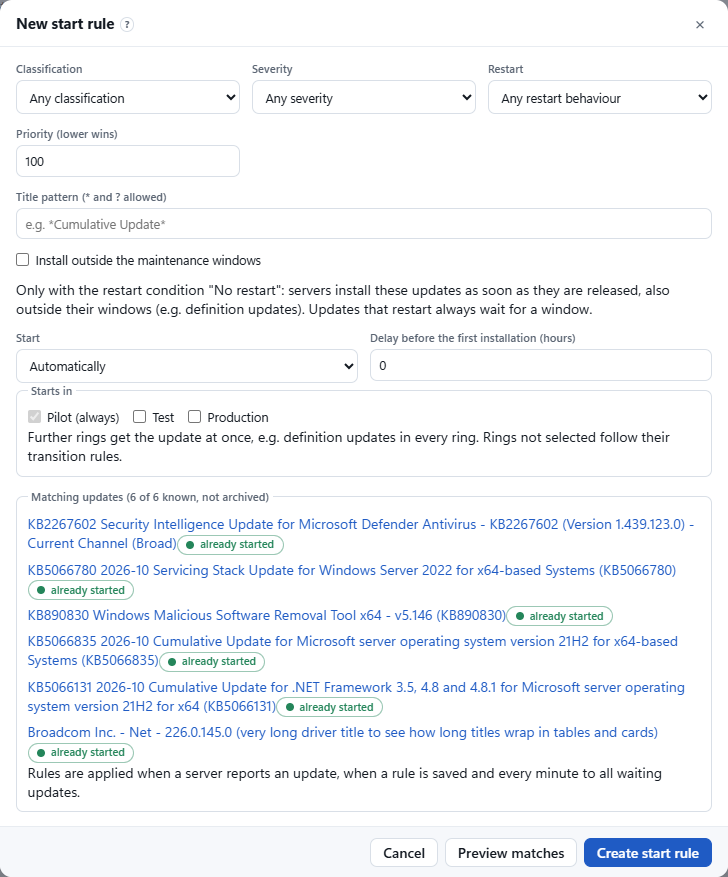
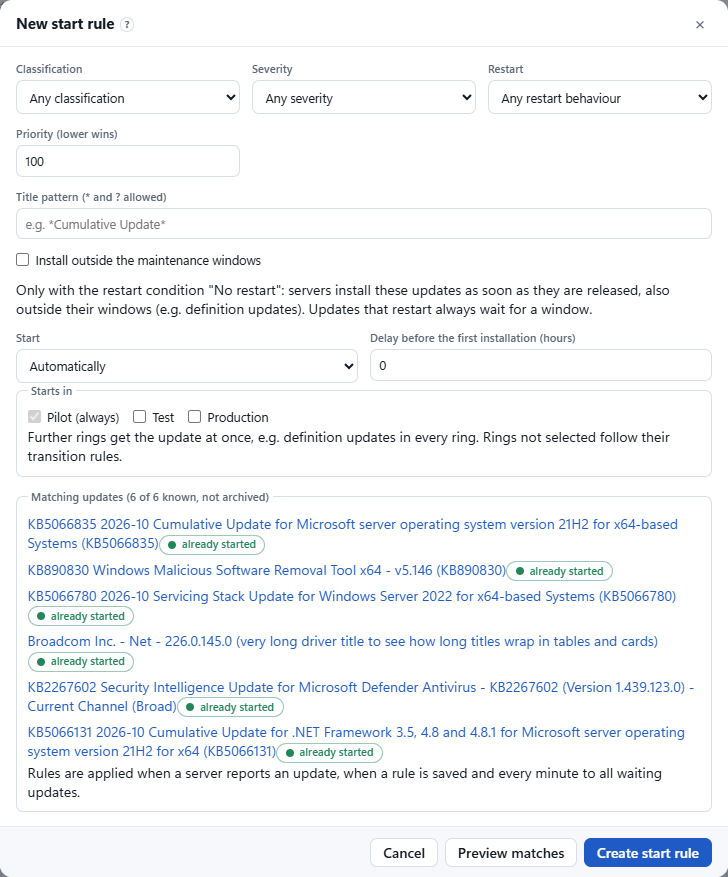
Help pages with a sticky topic navigation and the current topic's sections, wider article, screenshots of pages and boxes on nine topics; mojibake fixed

Changed region(s): [[0.0302, 0.5849, 0.9368, 0.862]]

diff --git a/src/SUSyphos.Server/wwwroot/app.css b/src/SUSyphos.Server/wwwroot/app.css
@@ -473,7 +473,16 @@ h1 .help-link { vertical-align: 0.3em; }
 .help-index li { display: grid; gap: 0.15rem; padding: 0.75rem 1.1rem; border-top: 1px solid var(--line); }
 .help-index li:first-child { border-top: 0; }
 .help-index a { font-weight: 600; }
-.help-article .box-body { max-width: 52rem; line-height: 1.55; }
+/* Help page: the topics on the left (sticky, current topic with its sections), the article in the rest of the width. */
+.help-layout { display: grid; grid-template-columns: 15rem minmax(0, 1fr); gap: 1rem; align-items: start; }
+.help-nav { position: sticky; top: 1rem; max-height: calc(100vh - 2rem); overflow-y: auto; padding: 0.5rem 0; font-size: 0.86rem; }
+.help-nav ul { list-style: none; margin: 0; padding: 0; }
+.help-nav li a { display: block; padding: 0.3rem 1rem; color: var(--text); border-left: 3px solid transparent; }
+.help-nav li a:hover { background: var(--surface-2); text-decoration: none; }
+.help-nav li.current > a { color: var(--accent); font-weight: 600; border-left-color: var(--accent); background: var(--accent-soft); }
+.help-nav li ul a { padding: 0.2rem 1rem 0.2rem 1.8rem; color: var(--muted); font-size: 0.8rem; }
+@media (max-width: 1100px) { .help-layout { grid-template-columns: minmax(0, 1fr); } .help-nav { position: static; max-height: none; } }
+.help-article .box-body { max-width: 72rem; line-height: 1.55; }
 .help-article h1 { margin-bottom: 0.6rem; }
 .help-article h2 { margin: 1.8rem 0 0.4rem; font-size: 1.15rem; }
 .help-article h3 { margin: 1.3rem 0 0.3rem; font-size: 1rem; }

diff --git a/src/SUSyphos.Server/Help/HelpCatalog.cs b/src/SUSyphos.Server/Help/HelpCatalog.cs
@@ -16,7 +16,8 @@ namespace SUSyphos.Server.Help;
 /// <param name="Html">The rendered page.</param>
 /// <param name="Anchors">Element ids of the headings, the targets of the help links in the dashboard.</param>
 /// <param name="Images">Image paths the page shows (screenshots under <c>help-images/</c>).</param>
-public sealed record HelpTopic(string Slug, string Title, string Summary, int Order, string Html, FrozenSet<string> Anchors, IReadOnlyList<string> Images);
+/// <param name="Sections">The level-2 headings with their ids, for the navigation next to the page.</param>
+public sealed record HelpTopic(string Slug, string Title, string Summary, int Order, string Html, FrozenSet<string> Anchors, IReadOnlyList<string> Images, IReadOnlyList<(string Id, string Title)> Sections);
 
 /// <summary>
 /// The help pages of the dashboard. Sources are Markdown files compiled into the assembly (<c>Help/Topics</c>); raw HTML
@@ -86,7 +87,8 @@ public sealed partial class HelpCatalog
         var summary = document.Descendants<ParagraphBlock>().FirstOrDefault() is { } first ? PlainText(first.Inline) : string.Empty;
         var anchors = headings.Select(h => h.GetAttributes().Id).OfType<string>().ToFrozenSet(StringComparer.Ordinal);
         var images = document.Descendants<LinkInline>().Where(l => l.IsImage && l.Url is not null).Select(l => l.Url!).ToList();
-        return new HelpTopic(slug, title, summary, order, document.ToHtml(Pipeline), anchors, images);
+        var sections = headings.Where(h => h.Level == 2 && h.GetAttributes().Id is not null).Select(h => (h.GetAttributes().Id!, PlainText(h.Inline))).ToList();
+        return new HelpTopic(slug, title, summary, order, document.ToHtml(Pipeline), anchors, images, sections);
     }
 
     private static string PlainText(ContainerInline? inline) =>

diff --git a/tests/SUSyphos.UiTests/HelpScreenshotTests.cs b/tests/SUSyphos.UiTests/HelpScreenshotTests.cs
@@ -23,6 +23,17 @@ public sealed class HelpScreenshotTests(UiFixture ui)
         { "release-rules-ring-dialog", "/administration/release-rules?tab=rings", "main a[href*='dialog=ring&']", "[role='dialog']" },
         { "release-rules-start-dialog", "/administration/release-rules?dialog=rule-new", null, "[role='dialog']" },
         { "week-choice", "/administration/maintenance", "details.week-choice > summary", "details.week-choice[open]" },
+
+        // Pages and boxes, so every help page shows what it explains (Marc, 2026-10-27).
+        { "overview-tiles", "/", null, "main .tiles" },
+        { "server-list", "/servers", null, "main section.box:has(.ring-strip)" },
+        { "server-page", "/servers/{main}", null, "main .tiles" },
+        { "update-list", "/updates", null, "main section.box:has(table)" },
+        { "update-progress", "/updates/{update}", null, "main .grid-side" },
+        { "operating-systems", "/operating-systems", null, "main .tiles" },
+        { "agent-settings", "/administration/agent-settings", null, "main section.box" },
+        { "notifications-channels", "/administration/notifications", null, "main .grid-2" },
+        { "certificates", "/administration/certificate", null, "main section.box:has(table)" },
     };
 
     /// <summary>Viewport rectangle (left, top, right, bottom) of an element and all its visible descendants.</summary>

diff --git a/tests/SUSyphos.Server.Tests/HelpTests.cs b/tests/SUSyphos.Server.Tests/HelpTests.cs
@@ -28,6 +28,9 @@ public sealed class HelpTests
         var topics = Path.Combine(WebRoot, "..", "Help", "Topics");
 
         Assert.All(Directory.GetFiles(topics, "*.md"), file => Assert.StartsWith("# ", File.ReadAllText(file), StringComparison.Ordinal));
+
+        // UTF-8 read as another code page once turned "×" into "Ã—".
+        Assert.All(Directory.GetFiles(topics, "*.md"), file => Assert.DoesNotContain("Ã", File.ReadAllText(file), StringComparison.Ordinal));
     }
 
     [Fact]

diff --git a/src/SUSyphos.Server/Help/Topics/20-servers.md b/src/SUSyphos.Server/Help/Topics/20-servers.md
@@ -2,6 +2,8 @@
 
 All servers that registered with the central server, approved or not (deleted servers are left out). Click a server name to open its [details](help/server-detail). Search, grouping, sorting and column filters work as described in [Working with lists](help/tables).
 
+![The server list with the ring strip above it, the support and security tags, ring and groups, agent, status and updates](help-images/server-list.png)
+
 ## Actions for selected servers {#actions}
 
 Operators and administrators see a band above the list. Tick the servers in the list (**Select**), then choose in a drop-down button:
@@ -28,7 +30,7 @@ A ring tag switches that ring on or off in the **Ring** filter of the list: seve
 
 ## Servers of an assignment rule {#rule}
 
-Opened from the **Servers** number of an assignment rule, the list shows only the approved servers whose role, domain and host name match that rule. The chip "Assignment rule" with its priority says so; its **Ã—** shows all servers again.
+Opened from the **Servers** number of an assignment rule, the list shows only the approved servers whose role, domain and host name match that rule. The chip "Assignment rule" with its priority says so; its **×** shows all servers again.
 
 ## Columns {#columns}
 
@@ -40,7 +42,7 @@ Opened from the **Servers** number of an assignment rule, the list shows only th
 | **Ring and groups** | The ring the server belongs to, as ring tag ("–": no ring yet), and below it a tag for each server group it belongs to (coordination of installations, see [Server groups](help/groups)). The column filter is the ring; the filter "Group" is in the chips and in "Group by". Whether the ring was set by hand shows on the server's Configuration tab. |
 | **Agent** | Version of the SUSyphos agent on the server (full version in the tooltip) with a mark before it: a green check means current (no newer version released for its ring), a blue arrow up means an update is available (it installs itself), a red dash means the last update failed, and grey dots mean the version is unknown or too old to update itself. The tooltip of the mark explains it; the filter offers the versions and these states. |
 | **Status** | See below. |
-| **Security** | The server against the security baseline of its Windows version: "Current", "1 behind", "2+ behind" or "Unknown" (no security data from Microsoft, see [Operating systems](help/operating-systems#data)), with "Exploited" below when a vulnerability Microsoft knows to be attacked is open. The tooltip names build, baseline and the open vulnerabilities; the filter offers the states and "Exploited". The server groups now stand below the ring. |
+| **Security** | The server against the security baseline of its Windows version: "Current", "1 behind", "2+ behind" or "Unknown" (no security data from Microsoft, see [Operating systems](help/operating-systems#data)), with "Exploited" below when a vulnerability Microsoft knows to be attacked is open. The tooltip names build, baseline and the open vulnerabilities; the filter offers the states and "Exploited". |
 | **Updates** | The updates of the server by state as a small ring (installed, pending, failed, queued), with the number of updates still pending next to it and the counts in the tooltip. Sorted by the pending number; its filter offers "Updates pending" and "Up to date". |
 | **Last heartbeat** | Time of the last heartbeat with a dot before it: green up to 5 minutes old, amber up to an hour, red older (the server counts as offline). Its filter offers "Current", "Older" and "Long ago". |
 

diff --git a/src/SUSyphos.Server/Help/Topics/22-operating-systems.md b/src/SUSyphos.Server/Help/Topics/22-operating-systems.md
@@ -2,6 +2,8 @@
 
 The Windows versions of the approved servers: how many servers run the newest security build, which vulnerabilities are still open, how quickly the servers install a new security build, and when Microsoft ends the support of each version. The line under the title says which monthly security data from Microsoft the page uses and when it was fetched.
 
+![The tiles of the operating systems page: security baseline, open vulnerabilities and exploited](help-images/operating-systems.png)
+
 ## Security data from Microsoft {#data}
 
 The central server reads the security data of the last three months from the Security Update Guide of Microsoft (MSRC, `api.msrc.microsoft.com`, no account needed): once a day, and every two hours from the patch day (second Tuesday) to two days after, when Microsoft revises the data. For every vulnerability (CVE) it keeps severity, CVSS score, impact, whether it is exploited or publicly disclosed, and for every Windows Server version (2016 to 2025, Server Core included) the build and KB that fix it. A failed fetch keeps the data there is; a blue banner **Offline** appears when the fetch is switched off in the configuration (`Msrc:Enabled`, for a central server without internet access), an amber banner **Not fetched** when the last fetch failed, with the error.

diff --git a/src/SUSyphos.Server/Help/Topics/69-agent-settings.md b/src/SUSyphos.Server/Help/Topics/69-agent-settings.md
@@ -2,6 +2,8 @@
 
 Settings of the agents themselves, set once for all agents here; a group or a single server can set other values (their "Agent settings" section). Empty fields keep the agent's own value (its configuration file, shown as "agent default"). Agents apply changes with their next heartbeat and keep them, so they also apply after a restart before the central server is reached. Changes of logging or process priority restart the agent service once. Values in the registry of a server (installer or policy key) win over these settings. What an agent actually applies, and where each value comes from, shows on its server page (System, "Agent settings", Show). Administrators only.
 
+![The agent settings page: one row per setting, dashed fields keep the agent default](help-images/agent-settings.png)
+
 Which value applies: a value set on the server wins; then its groups (if several groups set a setting, the lowest number wins, for other settings the group first by name); then the value set here; else the agent's own value.
 
 - **Save agent settings** stores all fields at once; **Discard changes** shows the stored values again. A field outside its range is refused with a note and the entered values stay in the fields.

diff --git a/src/SUSyphos.Server/Help/Topics/66-notifications.md b/src/SUSyphos.Server/Help/Topics/66-notifications.md
@@ -2,6 +2,8 @@
 
 The central server tells you about events that need attention, by e-mail and/or a webhook. Every minute it sends each new event once, collected in one message per channel; the [Events](#events) table decides which events go to which channel. A condition is reported once while it lasts and again only after it ended and came back; a failed delivery is retried with the next run. Administrators only.
 
+![The channels tab with the e-mail and webhook boxes and their test buttons](help-images/notifications-channels.png)
+
 Passwords and secrets are stored encrypted on this server (Windows data protection) and are not part of the backup; enter them again after a restore on another machine.
 
 The settings are split into two tabs of one form: **Channels** (e-mail, webhook, messages and links; the tab says how many channels are on, amber when none) and **Events** (the event table, with the number of events sent at all). **Save** stores both tabs at once.

diff --git a/src/SUSyphos.Server/Help/Topics/21-server-detail.md b/src/SUSyphos.Server/Help/Topics/21-server-detail.md
@@ -2,6 +2,8 @@
 
 Everything about one server: its state, what the agent does next, its configuration, its updates and its history. Open it from the [server list](help/servers) or any link with the server name. The line under the name shows the fully qualified name, operating system, build and ring.
 
+![The tiles at the top of a server page: status, updates, next maintenance window and last heartbeat](help-images/server-page.png)
+
 ## Queued restart {#restart-queued}
 
 A red banner at the top appears when a restart of the server is queued or planned: requested by an administrator (now or in the next maintenance window) or announced by the agent. It says when the restart happens or why it waits. Once the agent has announced the restart to Windows (the five-minute warning signed-in users see), the banner says **Restart announced** with the exact time; the System box, the Tasks box and the server list show that time too.

diff --git a/src/SUSyphos.Server/Help/Topics/31-update-detail.md b/src/SUSyphos.Server/Help/Topics/31-update-detail.md
@@ -2,6 +2,8 @@
 
 One update with its rollout through the rings and its state on every server. The line under the title shows classification, severity, revision, restart behaviour and when it was first reported; the tag next to the title shows the rollout state as in the [update list](help/updates#columns). **Release notes** opens Microsoft's support article of the KB in a new tab, **Catalog** the KB in the Microsoft Update Catalog (packages for download).
 
+![Progress by ring and all servers on the overview tab of an update](help-images/update-progress.png)
+
 The boxes are split into three tabs: **Overview** (start rule, progress by ring and the state of all servers), **Servers** (every server with its state, and installations outside SUSyphos; the tab shows the number of failed installations) and **Timeline**. The tab is part of the address.
 
 ## Blocked, withdrawn and superseded {#block}

diff --git a/src/SUSyphos.Server/Help/Topics/30-updates.md b/src/SUSyphos.Server/Help/Topics/30-updates.md
@@ -2,6 +2,8 @@
 
 All updates that approved servers reported as missing, or that are in a rollout. Each update runs through the rings on its own ([How SUSyphos works](help/concepts#rollouts)). Click a title to open the [update details](help/update-detail). Search, grouping, sorting and column filters work as described in [Working with lists](help/tables).
 
+![The update list with search, grouping, the "Show:" switches and the rings column](help-images/update-list.png)
+
 The search takes a KB number, words of the title or a CVE number, in full or in part (for example CVE-2026-100201): with a CVE it lists the updates that fix it, according to Microsoft's security data (see [Operating systems](help/operating-systems#data)), and names the matching CVEs below their titles.
 
 ## Actions for selected updates {#actions}

diff --git a/src/SUSyphos.Server/Help/Topics/65-certificate.md b/src/SUSyphos.Server/Help/Topics/65-certificate.md
@@ -2,6 +2,8 @@
 
 The certificate the central server presents to agents and browsers over HTTPS. Administrators only.
 
+![The certificate list with state, valid until and the row actions](help-images/certificates.png)
+
 Agents do not pin the certificate but the **trust anchor** of the central server, a key that stays the same for its whole life. Whenever the certificate changes, the trust anchor signs a binding for the new certificate, and every agent accepts the new certificate on its next contact. A certificate change therefore never cuts the agents off. Renewals of the certificate in the LocalMachine store (for example by autoenrollment) are picked up automatically; without a certificate of its own the central server creates and renews a self-signed one.
 
 ## In use {#in-use}
